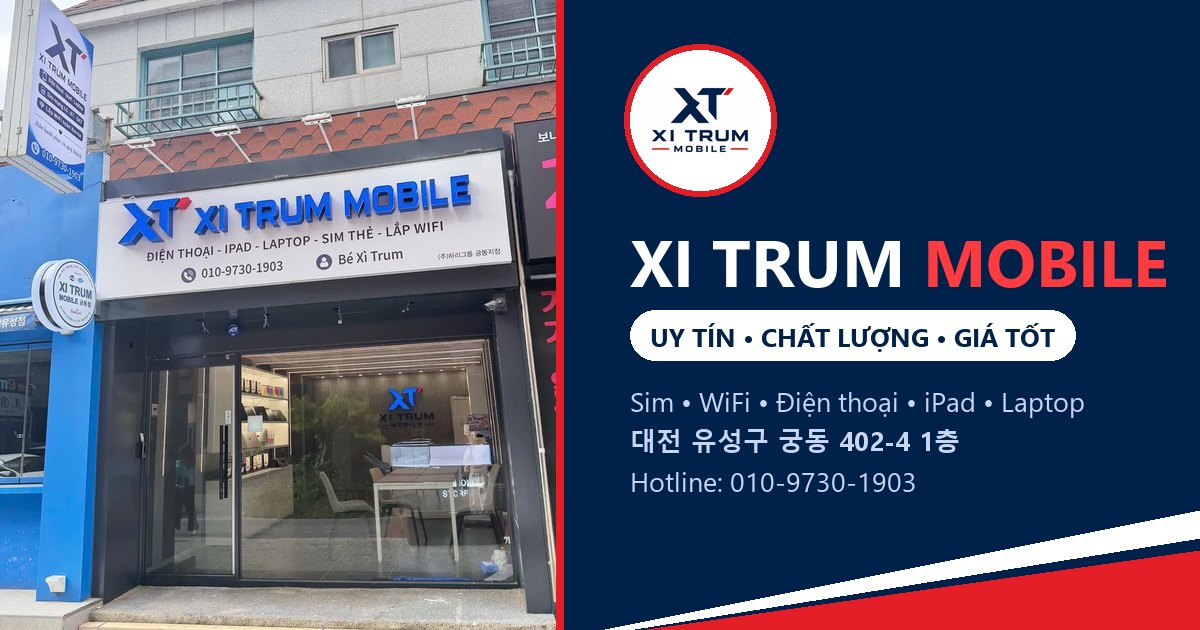
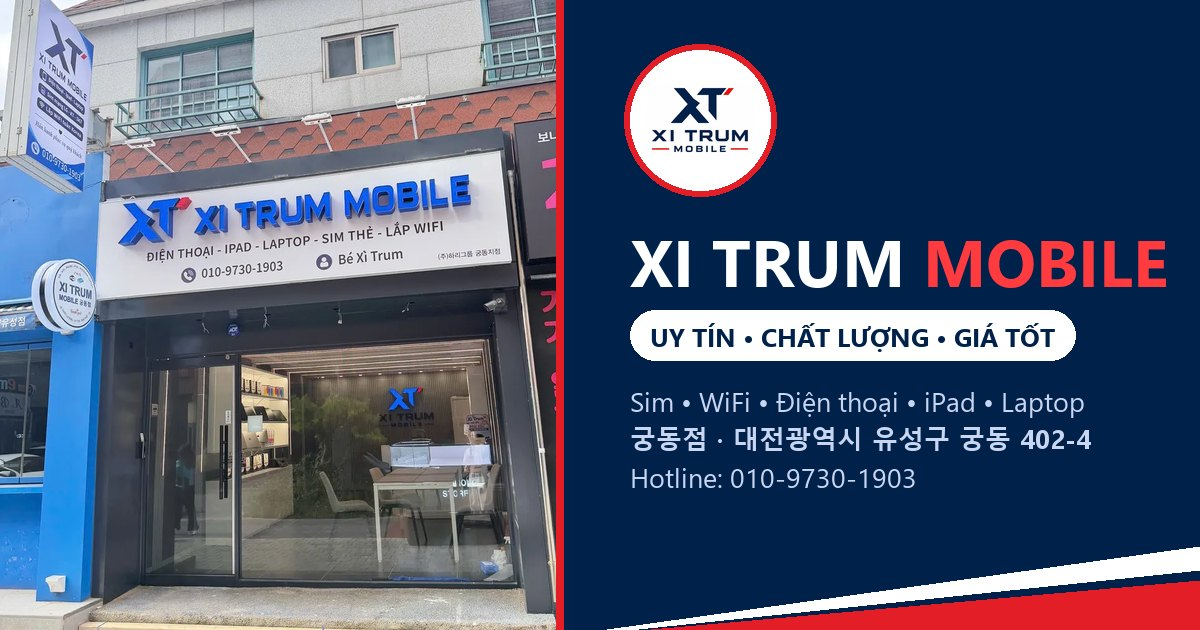
Update store addresses to 도마점 and 궁동점
Use the full addresses 대전광역시 서구 도마동 25-2 폰매장 (도마점) and
대전광역시 유성구 궁동 402-4 폰매장 (궁동점) in buttons, store info,
map links, meta descriptions and the link preview image.

Changed region(s): [[0.4933, 0.8143, 1.0, 1.0], [0.5242, 0.6635, 0.925, 0.7841]]

diff --git a/index.html b/index.html
@@ -7,7 +7,7 @@
 <meta name="description" content="Xi Trum Mobile – Sim sinh viên, lắp WiFi ưu đãi, điện thoại – iPad – laptop cũ mới giá tốt tại Daejeon. Đại lý chính thức Hanpass.">
 <meta name="theme-color" content="#00214A">
 <meta property="og:title" content="Xi Trum Mobile – Uy tín • Chất lượng • Giá tốt">
-<meta property="og:description" content="Sim sinh viên • Lắp WiFi toàn Korea • Điện thoại – iPad – Laptop • Làm thẻ Hanpass miễn phí. 궁동 402-4 · 도마동 25-2 (Lộc Boong Store)">
+<meta property="og:description" content="Sim sinh viên • Lắp WiFi toàn Korea • Điện thoại – iPad – Laptop • Làm thẻ Hanpass miễn phí. 궁동점: 유성구 궁동 402-4 · 도마점: 서구 도마동 25-2">
 <meta property="og:type" content="website">
 <meta property="og:url" content="https://xitrummobile.com/">
 <meta property="og:image" content="https://xitrummobile.com/assets/og.jpg">
@@ -265,15 +265,15 @@
       <span class="arr"><svg viewBox="0 0 24 24" fill="none" stroke="currentColor" stroke-width="2.5" stroke-linecap="round" stroke-linejoin="round"><path d="M9 6l6 6-6 6"/></svg></span>
     </a>
 
-    <a class="cta" href="https://map.naver.com/p/search/%EB%8C%80%EC%A0%84%20%EC%9C%A0%EC%84%B1%EA%B5%AC%20%EA%B6%81%EB%8F%99%20402-4" target="_blank" rel="noopener">
+    <a class="cta" href="https://map.naver.com/p/search/%EB%8C%80%EC%A0%84%EA%B4%91%EC%97%AD%EC%8B%9C%20%EC%9C%A0%EC%84%B1%EA%B5%AC%20%EA%B6%81%EB%8F%99%20402-4" target="_blank" rel="noopener">
       <span class="ic map"><svg viewBox="0 0 24 24" fill="currentColor"><path d="M12 2a7 7 0 0 0-7 7c0 5.2 7 13 7 13s7-7.8 7-13a7 7 0 0 0-7-7zm0 9.5A2.5 2.5 0 1 1 12 6.5a2.5 2.5 0 0 1 0 5z"/></svg></span>
-      <span class="txt"><b>Chỉ đường: Xi Trum Mobile</b><small>대전 유성구 궁동 402-4, 1층 · Naver Map</small></span>
+      <span class="txt"><b>Chỉ đường: 궁동점 · Xi Trum Mobile</b><small>대전광역시 유성구 궁동 402-4 폰매장 · Naver Map</small></span>
       <span class="arr"><svg viewBox="0 0 24 24" fill="none" stroke="currentColor" stroke-width="2.5" stroke-linecap="round" stroke-linejoin="round"><path d="M7 17 17 7M8 7h9v9"/></svg></span>
     </a>
 
-    <a class="cta" href="https://map.naver.com/p/search/%EB%8C%80%EC%A0%84%20%EC%84%9C%EA%B5%AC%20%EB%8F%84%EB%A7%88%EB%8F%99%2025-2" target="_blank" rel="noopener">
+    <a class="cta" href="https://map.naver.com/p/search/%EB%8C%80%EC%A0%84%EA%B4%91%EC%97%AD%EC%8B%9C%20%EC%84%9C%EA%B5%AC%20%EB%8F%84%EB%A7%88%EB%8F%99%2025-2" target="_blank" rel="noopener">
       <span class="ic map"><svg viewBox="0 0 24 24" fill="currentColor"><path d="M12 2a7 7 0 0 0-7 7c0 5.2 7 13 7 13s7-7.8 7-13a7 7 0 0 0-7-7zm0 9.5A2.5 2.5 0 1 1 12 6.5a2.5 2.5 0 0 1 0 5z"/></svg></span>
-      <span class="txt"><b>Chỉ đường: Lộc Boong Store</b><small>대전 서구 도마동 25-2 폰매장 · Naver Map</small></span>
+      <span class="txt"><b>Chỉ đường: 도마점 · Lộc Boong Store</b><small>대전광역시 서구 도마동 25-2 폰매장 · Naver Map</small></span>
       <span class="arr"><svg viewBox="0 0 24 24" fill="none" stroke="currentColor" stroke-width="2.5" stroke-linecap="round" stroke-linejoin="round"><path d="M7 17 17 7M8 7h9v9"/></svg></span>
     </a>
   </nav>
@@ -325,13 +325,13 @@
     <div class="info">
       <div class="row">
         <span class="ri"><svg viewBox="0 0 24 24" fill="currentColor"><path d="M12 2a7 7 0 0 0-7 7c0 5.2 7 13 7 13s7-7.8 7-13a7 7 0 0 0-7-7zm0 9.5A2.5 2.5 0 1 1 12 6.5a2.5 2.5 0 0 1 0 5z"/></svg></span>
-        <div><small>Địa chỉ 1 · Xi Trum Mobile</small><b class="ko">대전 유성구 궁동 402-4, 1층</b>
-          <button class="copy" type="button" data-copy="대전광역시 유성구 궁동 402-4 1층">Sao chép địa chỉ</button></div>
+        <div><small>궁동점 · Xi Trum Mobile</small><b class="ko">대전광역시 유성구 궁동 402-4 폰매장</b>
+          <button class="copy" type="button" data-copy="대전광역시 유성구 궁동 402-4 폰매장">Sao chép địa chỉ</button></div>
       </div>
       <div class="row">
         <span class="ri"><svg viewBox="0 0 24 24" fill="currentColor"><path d="M12 2a7 7 0 0 0-7 7c0 5.2 7 13 7 13s7-7.8 7-13a7 7 0 0 0-7-7zm0 9.5A2.5 2.5 0 1 1 12 6.5a2.5 2.5 0 0 1 0 5z"/></svg></span>
-        <div><small>Địa chỉ 2 · Lộc Boong Store</small><b class="ko">대전 서구 도마동 25-2 폰매장</b>
-          <button class="copy" type="button" data-copy="대전 서구 도마동 25-2 폰매장">Sao chép địa chỉ</button></div>
+        <div><small>도마점 · Lộc Boong Store</small><b class="ko">대전광역시 서구 도마동 25-2 폰매장</b>
+          <button class="copy" type="button" data-copy="대전광역시 서구 도마동 25-2 폰매장">Sao chép địa chỉ</button></div>
       </div>
       <div class="row">
         <span class="ri"><svg viewBox="0 0 24 24" fill="none" stroke="currentColor" stroke-width="2.2" stroke-linecap="round"><circle cx="12" cy="12" r="9"/><path d="M12 7v5l3 2"/></svg></span>
